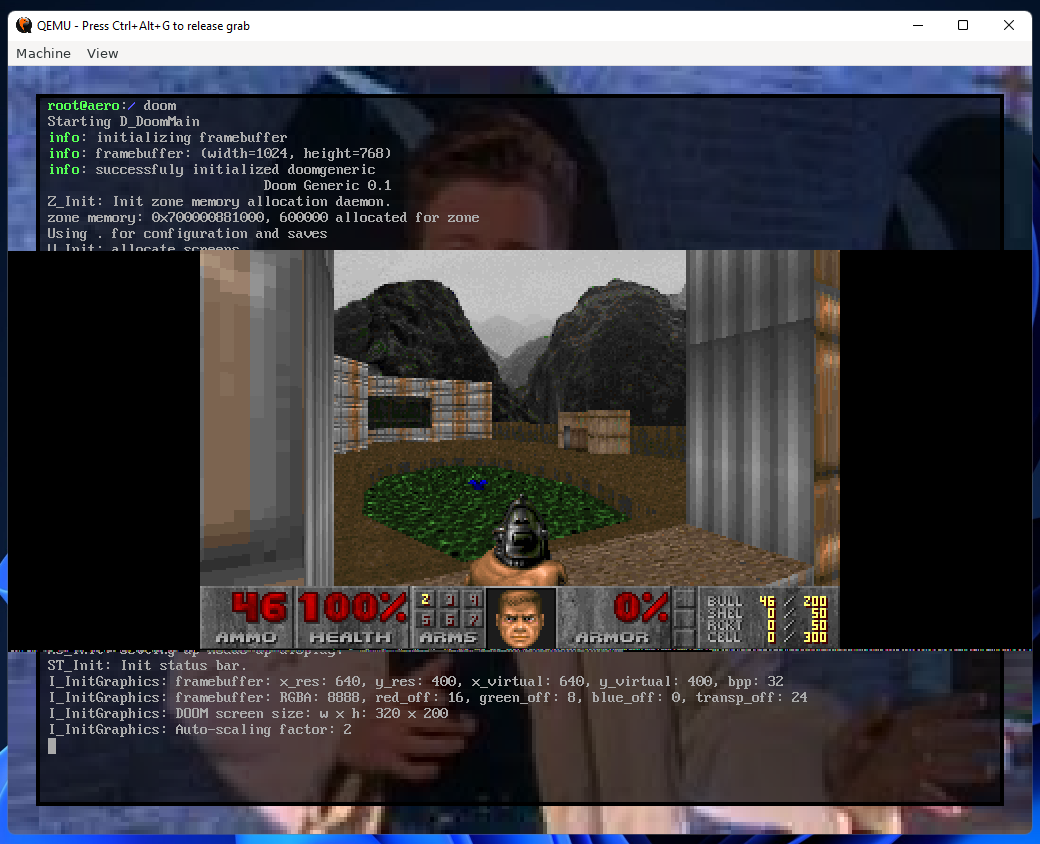
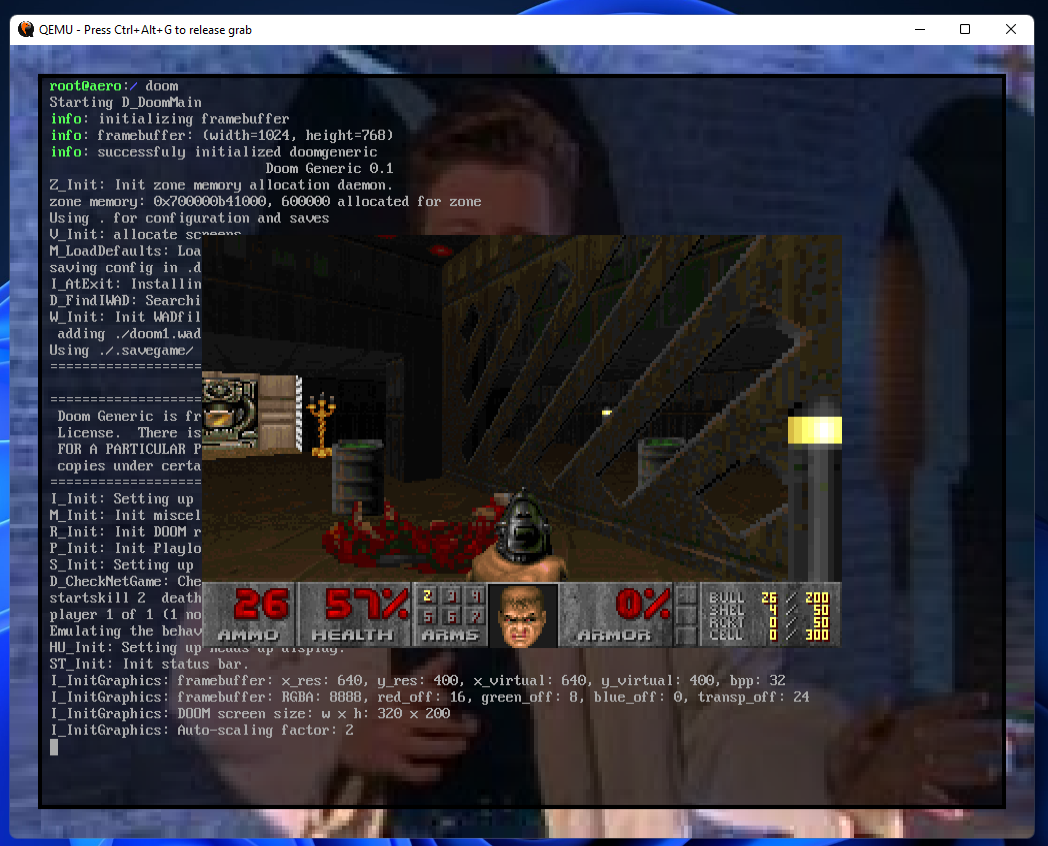
vm: refactor file mappings and allow to mmap /dev/fb :^)

diff --git a/src/aero_kernel/src/userland/vm.rs b/src/aero_kernel/src/userland/vm.rs
@@ -136,7 +136,6 @@ impl Mapping {
             self.handle_cow(offset_table, addr_aligned, false)
         } else {
             log::error!("    - present page read failed");
-
             false
         }
     }
@@ -162,9 +161,7 @@ impl Mapping {
                 mmap_file.size as u64 - (address - self.start_addr),
             );
 
-            if !reason.contains(PageFaultErrorCode::CAUSED_BY_WRITE)
-                && !reason.contains(PageFaultErrorCode::PROTECTION_VIOLATION)
-            {
+            if !reason.contains(PageFaultErrorCode::PROTECTION_VIOLATION) {
                 // We are writing to private file mapping so copy the content of the page.
                 log::trace!(
                     "    - private file R: {:?}..{:?} (offset={:#x})",
@@ -173,48 +170,32 @@ impl Mapping {
                     offset
                 );
 
-                let frame: PhysFrame = unsafe { FRAME_ALLOCATOR.allocate_frame() }
-                    .expect("failed to allocate frame for a private file read");
-
-                let buffer = unsafe {
-                    let phys = frame.start_address().as_u64();
-                    let virt = crate::PHYSICAL_MEMORY_OFFSET + phys;
-                    let ptr = virt.as_mut_ptr::<u8>();
-
-                    core::slice::from_raw_parts_mut(ptr, size as usize)
-                };
-
-                mmap_file
+                let phys = mmap_file
                     .file
                     .inode()
-                    .read_at(offset as usize, buffer)
-                    .unwrap();
+                    .mmap(offset as usize, self.flags)
+                    .expect("handle_pf_private_file: file does not support mmap");
 
-                let mut flags = PageTableFlags::PRESENT
-                    | PageTableFlags::USER_ACCESSIBLE
-                    | self.protection.into();
-
-                // We want to remove the writable flag since, we want to share the page table
-                // entry with other processes or threads until it tries to write to the same page
-                // and the mapping is marked as writable, in that case we will copy the page table
-                // entry.
-                flags.remove(PageTableFlags::WRITABLE);
+                let frame: PhysFrame<Size4KiB> = PhysFrame::containing_address(phys);
 
                 unsafe {
                     offset_table.map_to(
                         Page::containing_address(address),
                         frame,
-                        flags,
+                        PageTableFlags::PRESENT
+                            | PageTableFlags::USER_ACCESSIBLE
+                            | self.protection.into(),
                         &mut FRAME_ALLOCATOR,
                     )
                 }
                 .expect("failed to map allocated frame for private file read")
                 .flush();
-            } else {
-                unimplemented!()
-            }
 
-            true
+                true
+            } else {
+                log::error!("    - present page read failed");
+                false
+            }
         } else {
             false
         }
@@ -645,10 +626,12 @@ impl Vm {
         size: usize,
         protection: MMapProt,
         flags: MMapFlags,
+        offset: usize,
+        file: Option<DirCacheItem>,
     ) -> Option<VirtAddr> {
         self.inner
             .lock()
-            .mmap(address, size, protection, flags, 0x00, None)
+            .mmap(address, size, protection, flags, offset, file)
     }
 
     pub fn munmap(&self, address: VirtAddr, size: usize) -> bool {

diff --git a/src/aero_kernel/src/fs/devfs.rs b/src/aero_kernel/src/fs/devfs.rs
@@ -31,6 +31,7 @@ use spin::{Once, RwLock};
 use crate::fs::lookup_path;
 use crate::fs::Path;
 use crate::logger;
+use crate::mem::paging::PhysAddr;
 use crate::rendy::RendyInfo;
 
 use super::cache::DirCacheItem;
@@ -39,7 +40,7 @@ use super::ramfs::RamFs;
 use super::FileSystemError;
 use super::{FileSystem, Result, MOUNT_MANAGER};
 
-use aero_syscall::prelude::*;
+use aero_syscall::{prelude::*, MMapFlags};
 
 lazy_static::lazy_static! {
     static ref DEV_FILESYSTEM: Arc<DevFs> = DevFs::new();
@@ -118,6 +119,10 @@ impl INodeInterface for DevINode {
 
     fn read_at(&self, offset: usize, buffer: &mut [u8]) -> Result<usize> {
         self.0.inode().read_at(offset, buffer)
+    }
+
+    fn mmap(&self, offset: usize, flags: MMapFlags) -> Result<PhysAddr> {
+        self.0.inode().mmap(offset, flags)
     }
 
     fn ioctl(&self, command: usize, arg: usize) -> Result<usize> {
@@ -269,6 +274,31 @@ impl INodeInterface for DevFb {
 
                 fb[offset..offset + count].copy_from_slice(src);
                 Ok(count)
+            })
+            .expect("/dev/fb: terminal not initialized")
+    }
+
+    fn mmap(&self, offset: usize, _flags: MMapFlags) -> Result<PhysAddr> {
+        // NOTE: We dont need to check for the mmap flags here.
+        let rinfo = crate::rendy::get_rendy_info();
+
+        // Make sure we are in bounds.
+        if offset > rinfo.byte_len {
+            return Ok(PhysAddr::zero());
+        }
+
+        crate::rendy::DEBUG_RENDY
+            .get()
+            .map(|e| unsafe {
+                let mut lock = e.lock_irq();
+                let fb = lock.get_framebuffer();
+
+                let fb_ptr = fb.as_ptr() as *const u8;
+                let fb_ptr = fb_ptr.add(offset);
+
+                let fb_phys_ptr = fb_ptr.sub(crate::PHYSICAL_MEMORY_OFFSET.as_u64() as usize);
+
+                Ok(PhysAddr::new_unchecked(fb_phys_ptr as u64))
             })
             .expect("/dev/fb: terminal not initialized")
     }

diff --git a/src/aero_kernel/src/fs/ramfs.rs b/src/aero_kernel/src/fs/ramfs.rs
@@ -23,6 +23,7 @@
 
 use core::sync::atomic::{AtomicUsize, Ordering};
 
+use aero_syscall::MMapFlags;
 use alloc::collections::BTreeMap;
 use alloc::string::String;
 use alloc::sync::{Arc, Weak};
@@ -30,6 +31,7 @@ use alloc::sync::{Arc, Weak};
 use alloc::vec::Vec;
 use spin::RwLock;
 
+use crate::mem::paging::PhysAddr;
 use crate::utils::downcast;
 use crate::utils::sync::Mutex;
 
@@ -295,7 +297,7 @@ impl INodeInterface for LockedRamINode {
         })
     }
 
-    fn ioctl(&self, _command: usize, _arg: usize) -> Result<usize> {
+    fn ioctl(&self, command: usize, arg: usize) -> Result<usize> {
         let this = self.0.read();
 
         match &this.contents {
@@ -303,8 +305,24 @@ impl INodeInterface for LockedRamINode {
                 let device = dev.clone();
                 drop(this);
 
-                device.ioctl(_command, _arg)
+                device.ioctl(command, arg)
             }
+            _ => Err(FileSystemError::NotSupported),
+        }
+    }
+
+    fn mmap(&self, offset: usize, flags: MMapFlags) -> Result<PhysAddr> {
+        let this = self.0.read();
+
+        match &this.contents {
+            FileContents::Device(dev) => {
+                let device = dev.clone();
+                drop(this);
+
+                device.mmap(offset, flags)
+            }
+
+            // TODO: Support memory mapping ramfs files:
             _ => Err(FileSystemError::NotSupported),
         }
     }

diff --git a/src/aero_kernel/src/syscall/process.rs b/src/aero_kernel/src/syscall/process.rs
@@ -185,22 +185,32 @@ pub fn mmap(
     fd: usize,
     offset: usize,
 ) -> Result<usize, AeroSyscallError> {
-    assert_eq!(offset as isize, 0);
-    assert_eq!(fd as isize, -1);
-
     let address = VirtAddr::new(address as u64);
 
     let protection = MMapProt::from_bits(protection).ok_or(AeroSyscallError::EINVAL)?;
     let flags = MMapFlags::from_bits(flags).ok_or(AeroSyscallError::EINVAL)?;
 
-    if !flags.contains(MMapFlags::MAP_ANONYOMUS) {
+    if flags.contains(MMapFlags::MAP_SHARED) {
         unimplemented!()
+    }
+
+    let mut file = None;
+
+    if fd as isize != -1 {
+        file = Some(
+            scheduler::get_scheduler()
+                .current_task()
+                .file_table
+                .get_handle(fd)
+                .ok_or(AeroSyscallError::EBADF)?
+                .dirnode(),
+        );
     }
 
     if let Some(alloc) = scheduler::get_scheduler()
         .current_task()
         .vm()
-        .mmap(address, size, protection, flags)
+        .mmap(address, size, protection, flags, offset, file)
     {
         Ok(alloc.as_u64() as usize)
     } else {

diff --git a/src/aero_kernel/src/fs/inode.rs b/src/aero_kernel/src/fs/inode.rs
@@ -19,6 +19,7 @@
 
 use core::sync::atomic::{AtomicUsize, Ordering};
 
+use aero_syscall::MMapFlags;
 use aero_syscall::{OpenFlags, SocketAddr};
 
 use alloc::string::String;
@@ -28,6 +29,7 @@ use alloc::sync::Weak;
 use alloc::vec::Vec;
 use spin::Once;
 
+use crate::mem::paging::PhysAddr;
 use crate::utils::sync::Mutex;
 use crate::utils::Downcastable;
 
@@ -132,6 +134,10 @@ pub trait INodeInterface: Send + Sync + Downcastable {
     ///
     /// The caller is responsible for removing the inode from the cache.
     fn unlink(&self, _name: &str) -> Result<()> {
+        Err(FileSystemError::NotSupported)
+    }
+
+    fn mmap(&self, _offset: usize, _flags: MMapFlags) -> Result<PhysAddr> {
         Err(FileSystemError::NotSupported)
     }
 

diff --git a/src/aero_kernel/src/mem/paging/addr.rs b/src/aero_kernel/src/mem/paging/addr.rs
@@ -314,6 +314,10 @@ impl PhysAddr {
         unsafe { PhysAddr::new_unchecked(addr) }
     }
 
+    pub const fn zero() -> Self {
+        unsafe { Self::new_unchecked(0) }
+    }
+
     pub fn as_vm_frame(&self) -> Option<&'static VmFrame> {
         let frames = super::get_vm_frames();
 

diff --git a/src/aero_kernel/src/arch/x86_64/task.rs b/src/aero_kernel/src/arch/x86_64/task.rs
@@ -312,6 +312,8 @@ impl ArchTask {
             USERLAND_STACK_SIZE as usize,
             MMapProt::PROT_WRITE | MMapProt::PROT_READ,
             MMapFlags::MAP_FIXED | MMapFlags::MAP_PRIVATE | MMapFlags::MAP_ANONYOMUS,
+            0,
+            None,
         );
 
         vm.log();

diff --git a/src/aero_kernel/src/fs/file_table.rs b/src/aero_kernel/src/fs/file_table.rs
@@ -106,6 +106,10 @@ impl FileHandle {
         Ok(new_offset)
     }
 
+    pub fn dirnode(&self) -> DirCacheItem {
+        self.inode.clone()
+    }
+
     pub fn inode(&self) -> INodeCacheItem {
         self.inode.inode()
     }
